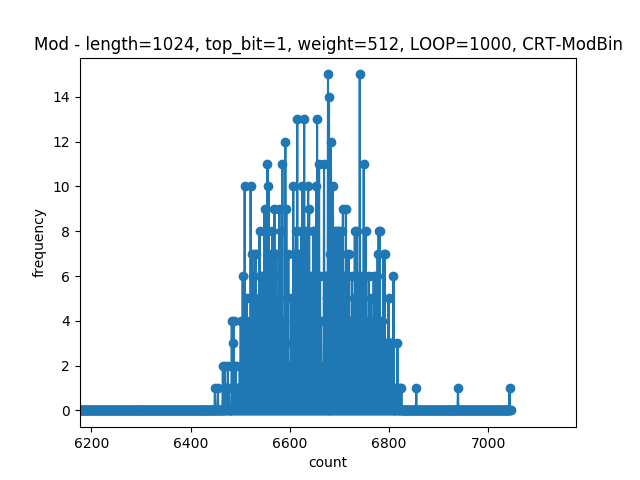
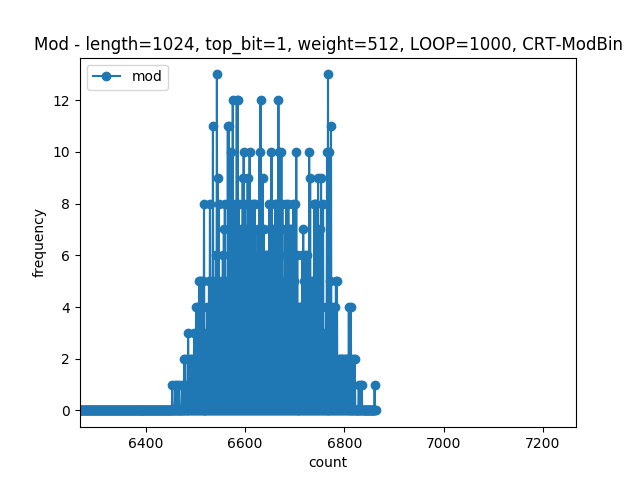
20180925 Kaji-Check

diff --git a/plot.py b/plot.py
@@ -56,8 +56,9 @@ def plotting(mod_list, mult_list, sum_list, title):
     plt.title('Mod - length={0}, top_bit={1}, weight={2}, LOOP={4}, {3}'.format(d_length, d_top_bit, d_weight, title, loop_times))
     plt.xlabel('count')
     plt.ylabel('frequency')
-    plt.legend(loc = 'upper left')
     plt.plot(mod_count, mod_freq, label='mod', marker='o')
+    #plt.plot(mod_count, mod_freq, label='mod')
+    plt.legend(loc = 'upper left')
     plt.savefig('graph/{0}_mod_{1}_{2}_{3}_Loop{4}_p{5}_q{6}.png'.format(title, d_length, d_top_bit, d_weight, loop_times, main.p, main.q))
     plt.show()
 
@@ -69,8 +70,9 @@ def plotting(mod_list, mult_list, sum_list, title):
     plt.title('Mult - length={0}, top_bit={1}, weight={2}, LOOP={4}, {3}'.format(d_length, d_top_bit, d_weight, title, loop_times))
     plt.xlabel('count')
     plt.ylabel('frequency')
+    plt.plot(mult_count, mult_freq, label='mult', marker='o')
+    #plt.plot(mult_count, mult_freq, label='mult')
     plt.legend(loc = 'upper left')
-    plt.plot(mult_count, mult_freq, label='mult', marker='x')
     plt.savefig('graph/{0}_mult_{1}_{2}_{3}_Loop{4}_p{5}_q{6}.png'.format(title, d_length, d_top_bit, d_weight, loop_times, main.p, main.q))
     plt.show()
 
@@ -81,8 +83,9 @@ def plotting(mod_list, mult_list, sum_list, title):
     plt.title('Sum - length={0}, top_bit={1}, weight={2}, LOOP={4}, {3}'.format(d_length, d_top_bit, d_weight, title, loop_times))
     plt.xlabel('count')
     plt.ylabel('frequency')
+    plt.plot(sum_count, sum_freq, label='sum', marker='o')
+    #plt.plot(sum_count, sum_freq, label='sum')
     plt.legend(loc = 'upper left')
-    plt.plot(sum_count, sum_freq, label='mod', marker='o')
     plt.savefig('graph/{0}_sum_{1}_{2}_{3}_Loop{4}_p{5}_q{6}.png'.format(title, d_length, d_top_bit, d_weight, loop_times, main.p, main.q))
     plt.show()
 
